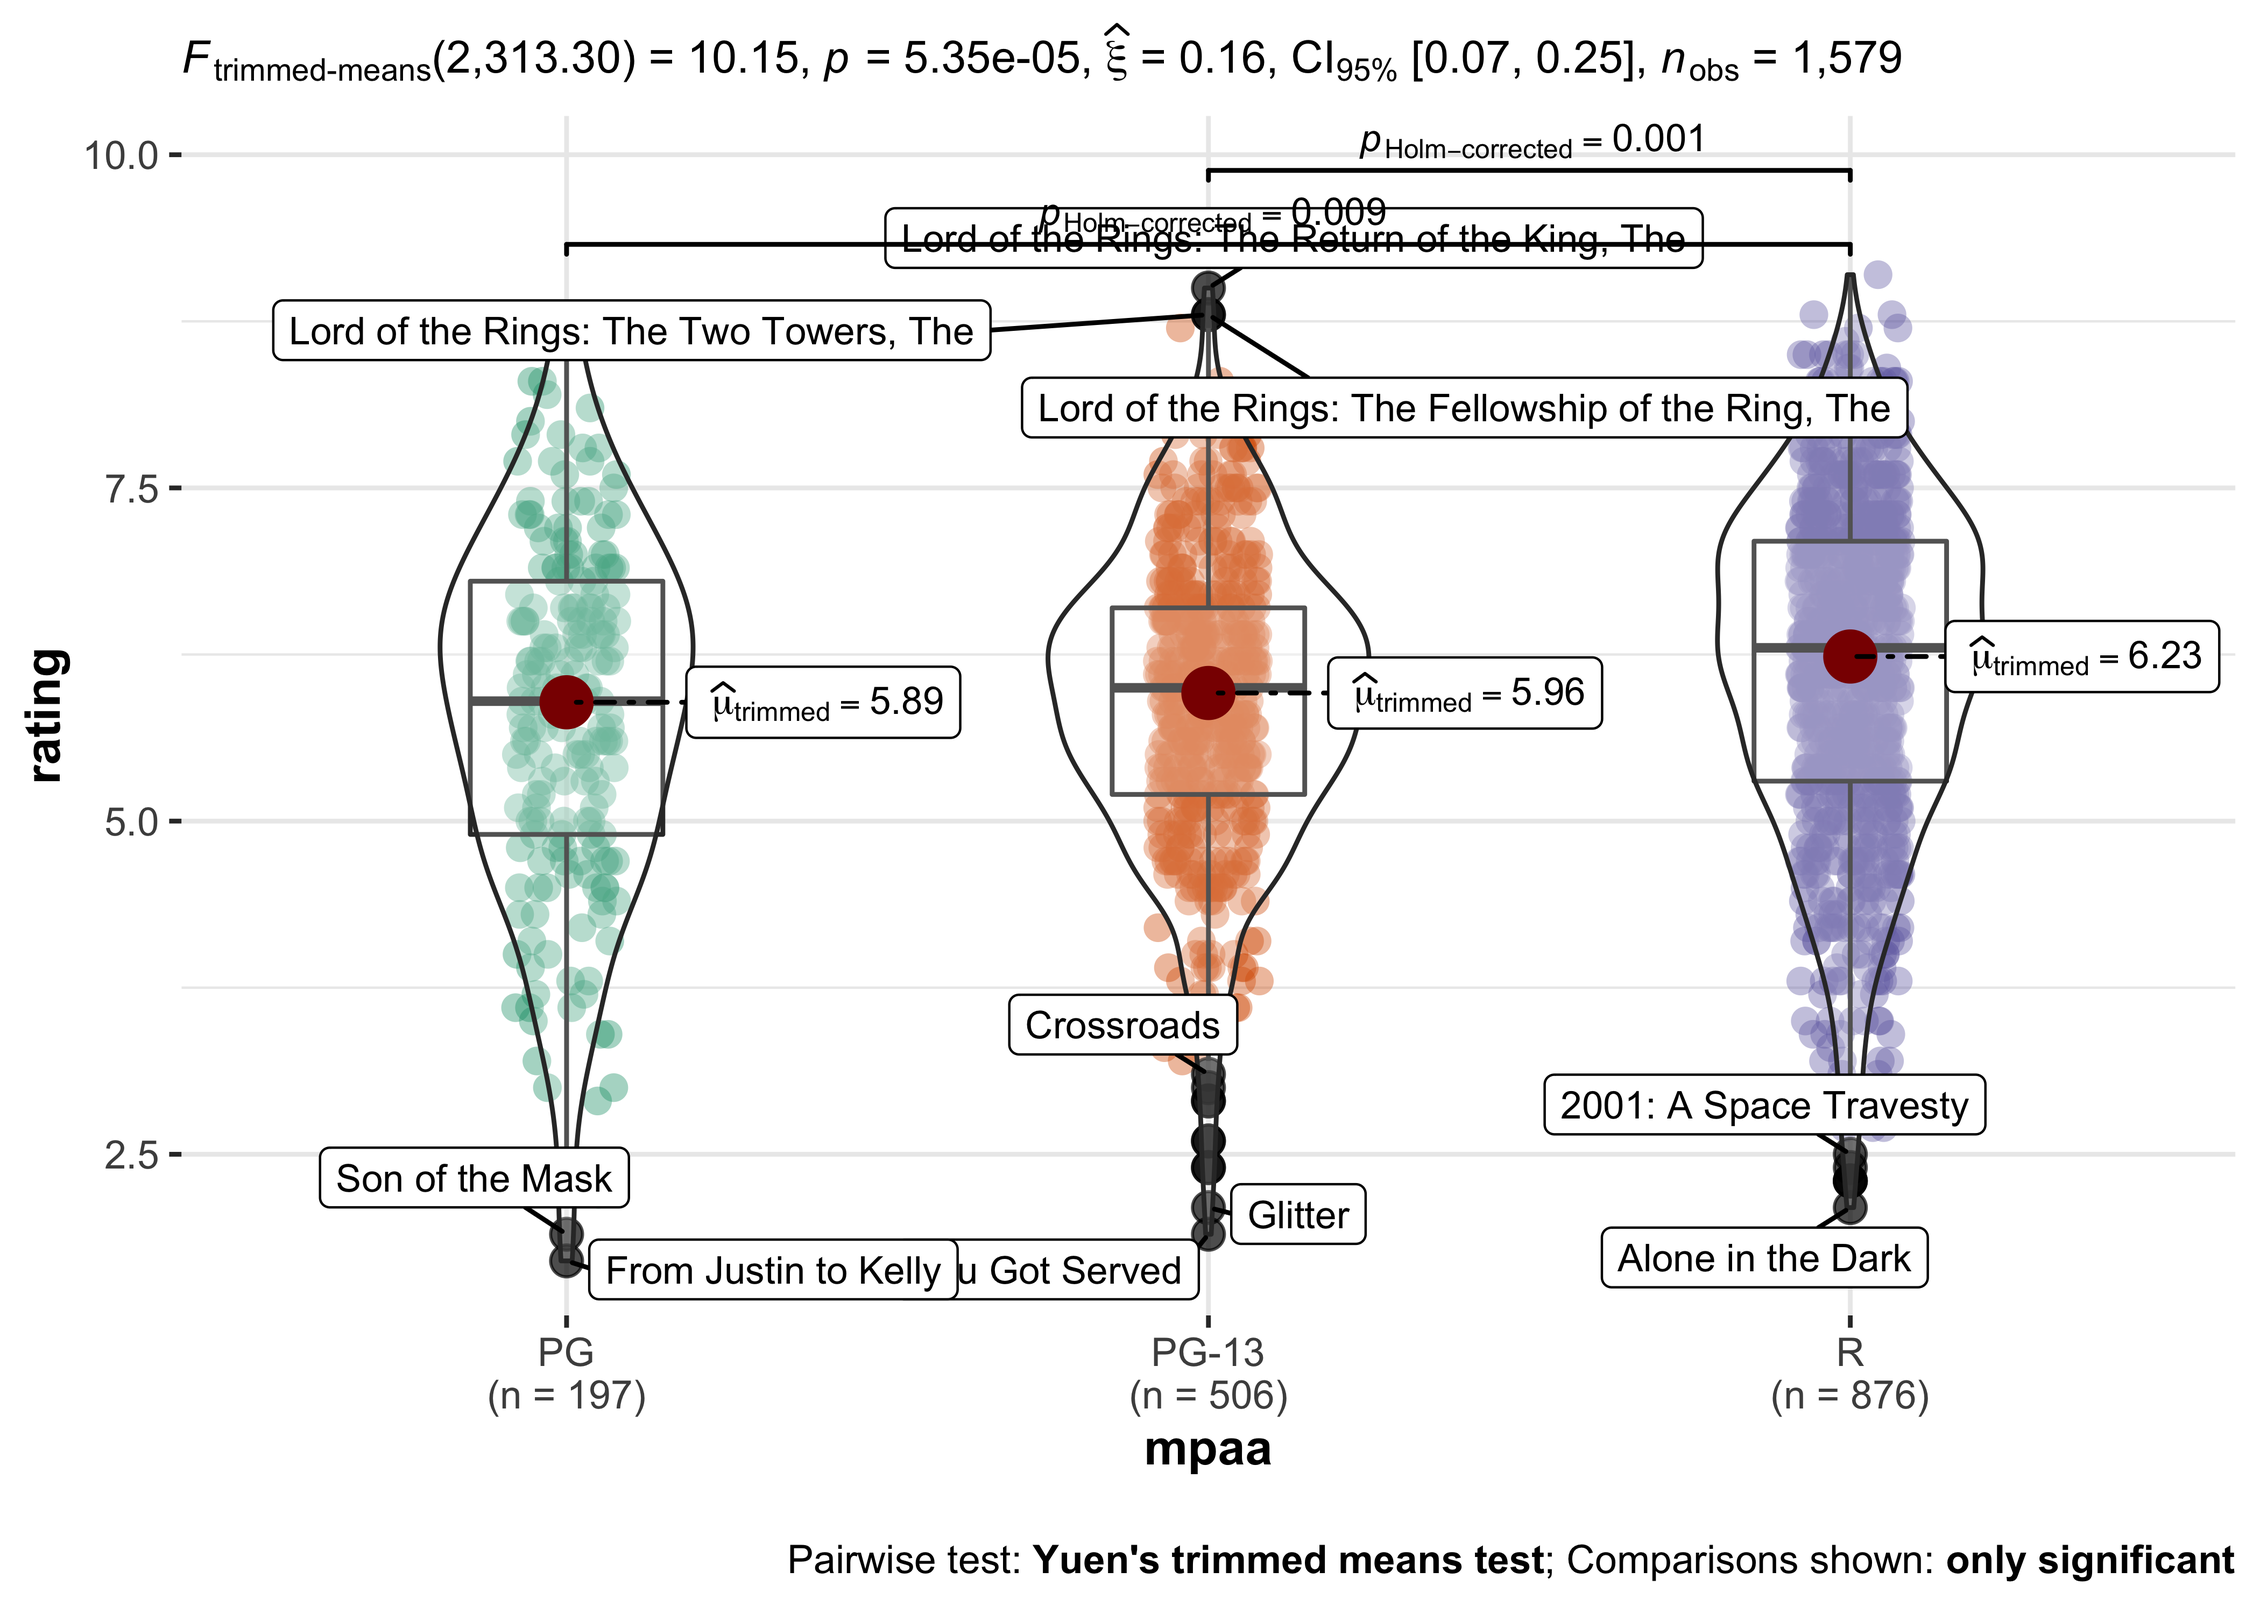
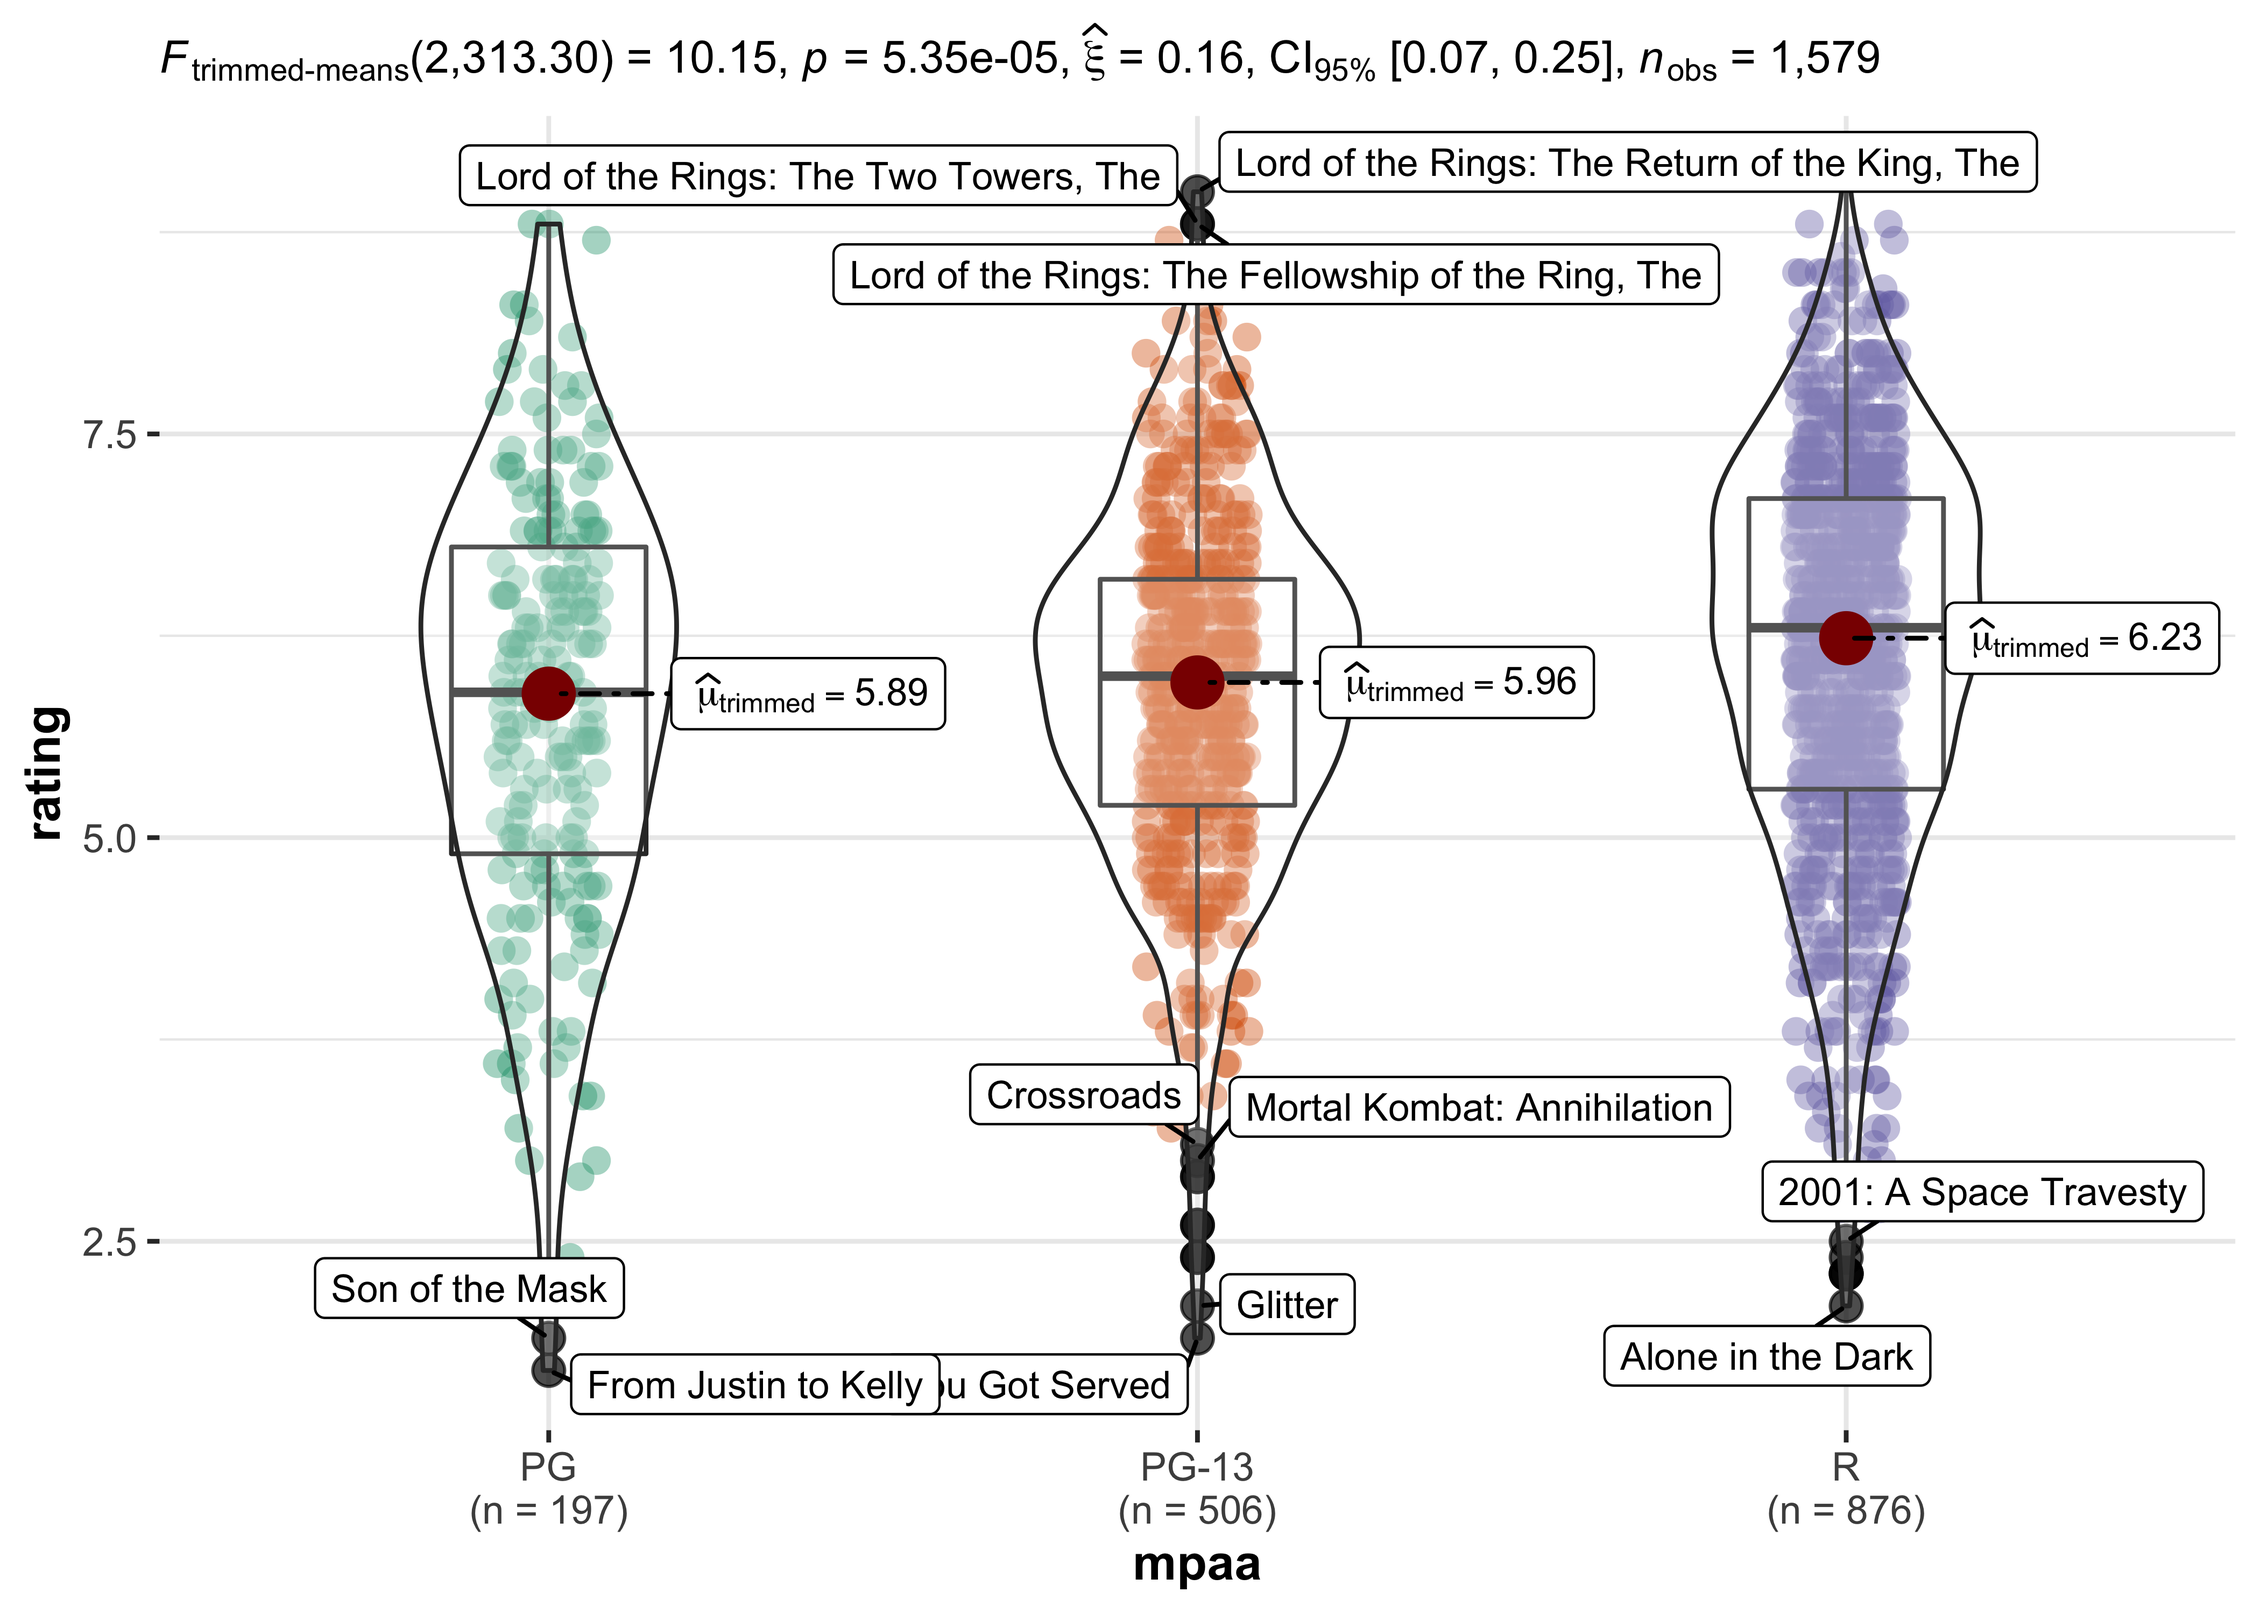
minor

diff --git a/docs/slides/ggstatsplot_presentation.html b/docs/slides/ggstatsplot_presentation.html
@@ -352,7 +352,7 @@ Changing the `type` of test
 ✅ `"p"` → **parametric** (default) &lt;br&gt;
 ✅ `"np"` → **non-parametric** &lt;br&gt;
 ✅ `"r"` → **robust**  &lt;br&gt;
-✅ `"bf"` → **Bayes Factor**
+✅ `"bf"` → **Bayesian**
 
 Changing pairwise comparisons displayed
 
@@ -382,6 +382,7 @@ ggbetweenstats(
   x = mpaa,
   y = rating,
   type = "r",
+  pairwise.comparisons = FALSE,
 * outlier.tagging = TRUE,
 * outlier.label = title
 )
@@ -439,7 +440,7 @@ Changing the `type` of test
 ✅ `"p"` → **parametric** (default) &lt;br&gt;
 ✅ `"np"` → **non-parametric** &lt;br&gt;
 ✅ `"r"` → **robust**  &lt;br&gt;
-✅ `"bf"` → **Bayes Factor**
+✅ `"bf"` → **Bayesian**
 ]
 ]
 
@@ -574,7 +575,7 @@ Changing the `type` of test
 ✅ `"p"` → **parametric** (default) &lt;br&gt;
 ✅ `"np"` → **non-parametric** &lt;br&gt;
 ✅ `"r"` → **robust**  &lt;br&gt;
-✅ `"bf"` → **Bayes Factor**
+✅ `"bf"` → **Bayesian**
 ]
 ]
 
@@ -624,7 +625,7 @@ Changing the marginal type
 
 layout: true
 
-# ggcorrmat - Multiple numeric variables
+# ggcorrmat - multiple numeric variables
 
 ---
 
@@ -645,7 +646,7 @@ Changing the `type` of test
 ✅ `"p"` → **parametric** (default) &lt;br&gt;
 ✅ `"np"` → **non-parametric** &lt;br&gt;
 ✅ `"r"` → **robust**  &lt;br&gt;
-✅ `"bf"` → **Bayes Factor**
+✅ `"bf"` → **Bayesian**
 
 ]
 ]
@@ -671,7 +672,7 @@ library(ggplot2) # for data
 
 ggcorrmat(
   data = dplyr::select(msleep, sleep_rem, awake, brainwt),
-  type = "bf",
+  type = "bayes",
 * output = "dataframe"
 )
 ```
@@ -912,7 +913,10 @@ mod &lt;- stats::lm(
 )
 
 # plot
-ggcoefstats(mod)
+ggcoefstats(
+  x = mod,
+  title = "IMDB rating by MPAA rating"
+)
 ```
 
 .font70[
@@ -1027,26 +1031,26 @@ class: inverse, center, middle
 
 ---
 
-exclude: false
+&lt;!-- exclude: false --&gt;
 
-layout: true
+&lt;!-- layout: true --&gt;
 
-# Defaults
+&lt;!-- # Defaults --&gt;
 
----
+&lt;!-- --- --&gt;
 
-exclude: false
+&lt;!-- exclude: false --&gt;
 
-.pull-left[
-.font100[
-The default plots in *&lt;font color="blue"&gt;ggstatsplot&lt;/font&gt;* are
-**opinionated**, yes, but they try to follow best practices outlined in the data visualization research.
-]
-]
+&lt;!-- .pull-left[ --&gt;
+&lt;!-- .font100[ --&gt;
+&lt;!-- The default plots in *&lt;font color="blue"&gt;ggstatsplot&lt;/font&gt;* are --&gt;
+&lt;!-- **opinionated**, yes, but they try to follow best practices outlined in the data visualization research. --&gt;
+&lt;!-- ] --&gt;
+&lt;!-- ] --&gt;
 
-.pull-right[
-![](images/books.JPG)
-]
+&lt;!-- .pull-right[ --&gt;
+&lt;!-- ![](images/books.JPG) --&gt;
+&lt;!-- ] --&gt;
 
 ---
 
@@ -1099,7 +1103,7 @@ ggbetweenstats(
   data = mtcars,
   x = am,
   y = wt,
-  type = "bf"
+  type = "bayes"
 ) +
 * scale_y_continuous(sec.axis = dup_axis())
 ```
@@ -1108,7 +1112,7 @@ ggbetweenstats(
 You can modify 
  `ggstatsplot` plots further 
 using `ggplot2` functions.
-Yaay!
+Yaay! 🎉
 ]
 
 .img-left-small[
@@ -1215,7 +1219,7 @@ layout: false
 
 --
 
-Functions | Description | Parametric | Non-parametric | Robust | Bayes Factor
+Functions | Description | Parametric | Non-parametric | Robust | Bayesian
 ------- | ------------------ | ---- | ----- | ----| ----- 
 `ggbetweenstats` | Between group comparisons | **&lt;font color="green"&gt;Yes&lt;/font&gt;** | **&lt;font color="green"&gt;Yes&lt;/font&gt;** | **&lt;font color="green"&gt;Yes&lt;/font&gt;** | **&lt;font color="green"&gt;Yes&lt;/font&gt;**
 `ggwithinstats` | Within group comparisons | **&lt;font color="green"&gt;Yes&lt;/font&gt;** | **&lt;font color="green"&gt;Yes&lt;/font&gt;** | **&lt;font color="green"&gt;Yes&lt;/font&gt;** | **&lt;font color="green"&gt;Yes&lt;/font&gt;**
@@ -1305,11 +1309,10 @@ layout: false
 
 --
 
-For all statistical tests reported in the plots, the expression template mostly abides
-by the [APA](https://my.ilstu.edu/~jhkahn/apastats.html) gold standard for
-statistical reporting. 
+The expression template tries to follow the APA gold standard for statistical
+reporting.
 
-For example, here are results from a robust *t*-test:
+For example, expression for robust *t*-test:
 
 ![](images/stats_reporting_format.jpg)
 
@@ -1344,12 +1347,14 @@ layout: false
 
 --
 
-Since the plot and the statistical analysis are yoked together, the chances of
-making an error in reporting the results are minimized.
-
 &gt; "we found that half of all published psychology papers that use NHST contained at least one p-value that was inconsistent with its test statistic and degrees of freedom. One in eight papers contained a grossly inconsistent p-value that may have affected the statistical conclusion"
 
 &gt; [(Nuijten et al., *Behavior Research Methods*, 2016)](https://link.springer.com/article/10.3758/s13428-015-0664-2)
+
+--
+
+Since the plot and the statistical analysis are yoked together, the chances of
+making an error in reporting the results are minimized.
 
 ---
 
@@ -1359,19 +1364,24 @@ layout: false
 
 --
 
-Combination of frequentist and Bayesian statistics for each analysis to properly interpret the null results.
-
 `\(p &gt; 0.05\)`: The null hypothesis (`H0`) can't be rejected
 
 But can it be **accepted**?! NHST 🤫
 
+--
+
 &gt; "In 72% of cases, nonsignificant results were misinterpreted, in that the
-authors inferred that the effect was absent. A Bayes factor reanalysis revealed
+authors inferred that the effect was absent. A Bayesian reanalysis revealed
 that fewer than 5% of the nonsignificant findings provided strong evidence
 (i.e., `\(BF_{01} &gt; 10\)`) in favor of the null hypothesis over the alternative
 hypothesis."
 
 &gt; [(Aczel et al., *AMPPS*, 2018)](https://journals.sagepub.com/doi/pdf/10.1177/2515245918773742)
+
+--
+
+Juxtaposing frequentist and Bayesian statistics for the same analysis helps to
+properly interpret the null results.
 
 ---
 
@@ -1389,7 +1399,7 @@ layout: true
 
 --
 
-- Minimal amount of code needed for all functions (typically only `data`, `x`,
+- Minimal amount of code needed (typically only `data`, `x`,
   and `y`), which minimizes chances of error and makes for tidy scripts.
   
 --
@@ -1440,21 +1450,28 @@ This package is...
 
 ❌ an alternative to learning `ggplot2` &lt;br&gt;
 --
-✅ (The better you know `ggplot2`, the more you can modify the defaults to your
-liking.)
+✅ (the more you know `ggplot2`, the better you can modify the
+defaults to your liking)
 
 --
 
 ❌ meant to be used in talks/presentations &lt;br&gt;
 --
-✅ (Default plots can be too complicated for effectively communicating results in
-time-constrained presentation settings, e.g. conference talks.)
+✅ (default plots can be too complicated for effectively
+communicating results in time-constrained presentation settings, e.g. conference
+talks)
+
+--
+
+❌ meant for mass communication &lt;br&gt;
+--
+✅ LOL 😆
 
 --
 
 ❌ the only game in town &lt;br&gt;
 --
-✅ (GUI software alternatives: [JASP](https://jasp-stats.org/) and [jamovi](https://www.jamovi.org/)).
+✅ (GUI software alternatives: [JASP](https://jasp-stats.org/) and [jamovi](https://www.jamovi.org/))
 
 ---
 
@@ -1475,12 +1492,12 @@ layout: true
 
 --
 
-- Although beginner-friendly to use, it expects a non-trivial level of
-  statistical proficiency (but only plots without statistics can also be used).
+- Expects a non-trivial level of statistical proficiency (but plots without
+  statistics can still be useful).
 
 --
 
-- &lt;font color="blue"&gt;Faceting&lt;/font&gt; (or small multiples) not implemented.
+- &lt;font color="blue"&gt;Faceting&lt;/font&gt; not implemented.
 
 ---
 
@@ -1511,11 +1528,13 @@ Ways in which you can [contribute](https://github.com/IndrajeetPatil/ggstatsplot
 - Read and correct any inconsistencies in the
 [documentation](https://indrajeetpatil.github.io/ggstatsplot/) 📖
 
-- Raise issues about bugs/features 🐛
+- Raise issues about bugs/features 🐞
 
 - Review code 🕵
 
-- Add new functionality 👨💻
+- Add new functionality 👩💻
+
+- Either mention or cite software if used in a publication 📝
 ]
 ]
 
@@ -1527,13 +1546,15 @@ class: inverse, center, middle
 
 # Acknowledgments
 
-Contributors to *ggstatsplot*
+Other developers 🙌
+[Daniel Lüdecke](https://github.com/strengejacke), [Dominique Makowski](https://github.com/DominiqueMakowski), [Mattan S. Ben-Shachar](https://github.com/mattansb)
 
-Other developers: [Daniel Lüdecke](https://github.com/strengejacke), [Dominique Makowski](https://github.com/DominiqueMakowski), [Mattan S. Ben-Shachar](https://github.com/mattansb), [Patrick Mair](https://psychology.fas.harvard.edu/people/patrick-mair)
+Support 💰
+[Mina Cikara](http://www.intergroupneurosciencelaboratory.com/), [Fiery Cushman](http://cushmanlab.fas.harvard.edu/index.php), [Iyad Rahwan](https://rahwan.me/)
 
-Support: [Mina Cikara](http://www.intergroupneurosciencelaboratory.com/), [Fiery Cushman](http://cushmanlab.fas.harvard.edu/index.php), [Iyad Rahwan](https://rahwan.me/)
+Contributors to *ggstatsplot* 🙏
 
-The CSS template comes from [Garrick Aden-Buie](https://github.com/gadenbuie/gentle-ggplot2).
+&lt;!-- The CSS template comes from [Garrick Aden-Buie](https://github.com/gadenbuie/gentle-ggplot2) --&gt;
 
 ---
 
@@ -1543,12 +1564,15 @@ class: inverse, center, middle
 
 # Find me at...
 
-.font130.text-white[
+.font100[
 
-[🐦 @patilindrajeets](http://twitter.com/patilindrajeets)  
+[🐦 @patilindrajeets](http://twitter.com/patilindrajeets)
+
 [💻 @IndrajeetPatil](http://github.com/IndrajeetPatil)  
+
 [🔗 https://sites.google.com/site/indrajeetspatilmorality/](https://sites.google.com/site/indrajeetspatilmorality/)  
-[📧 patilindrajeet.science@gmail.com](mailto:patilindrajeet.science@gmail.com)
+
+[📬 patilindrajeet.science@gmail.com](mailto:patilindrajeet.science@gmail.com)
 
 ]
 
